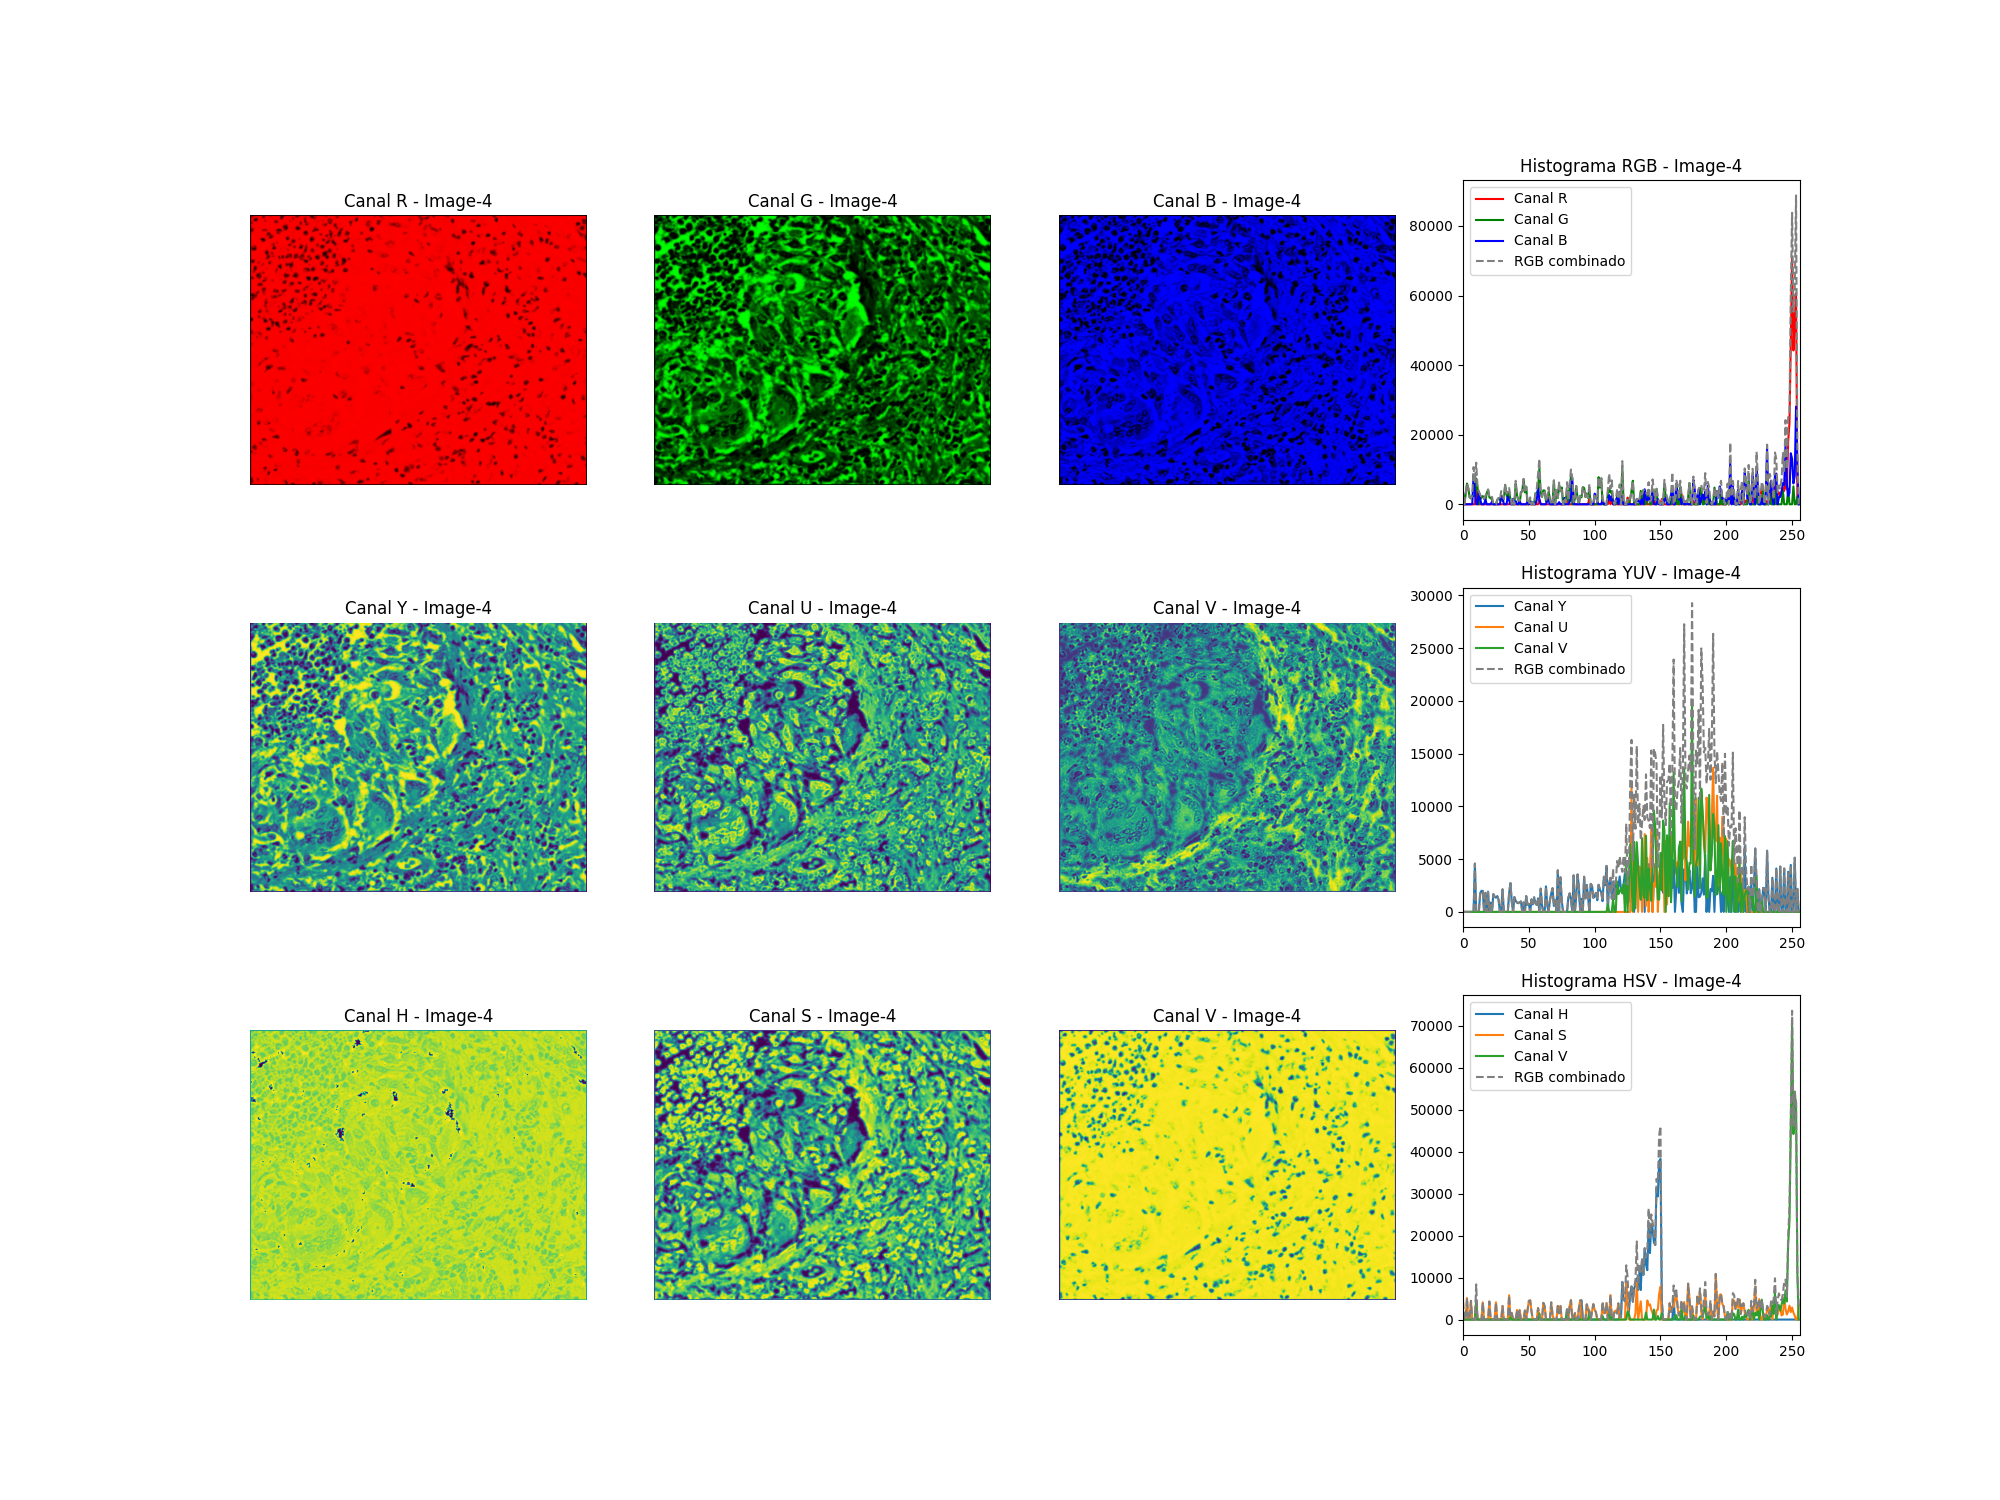
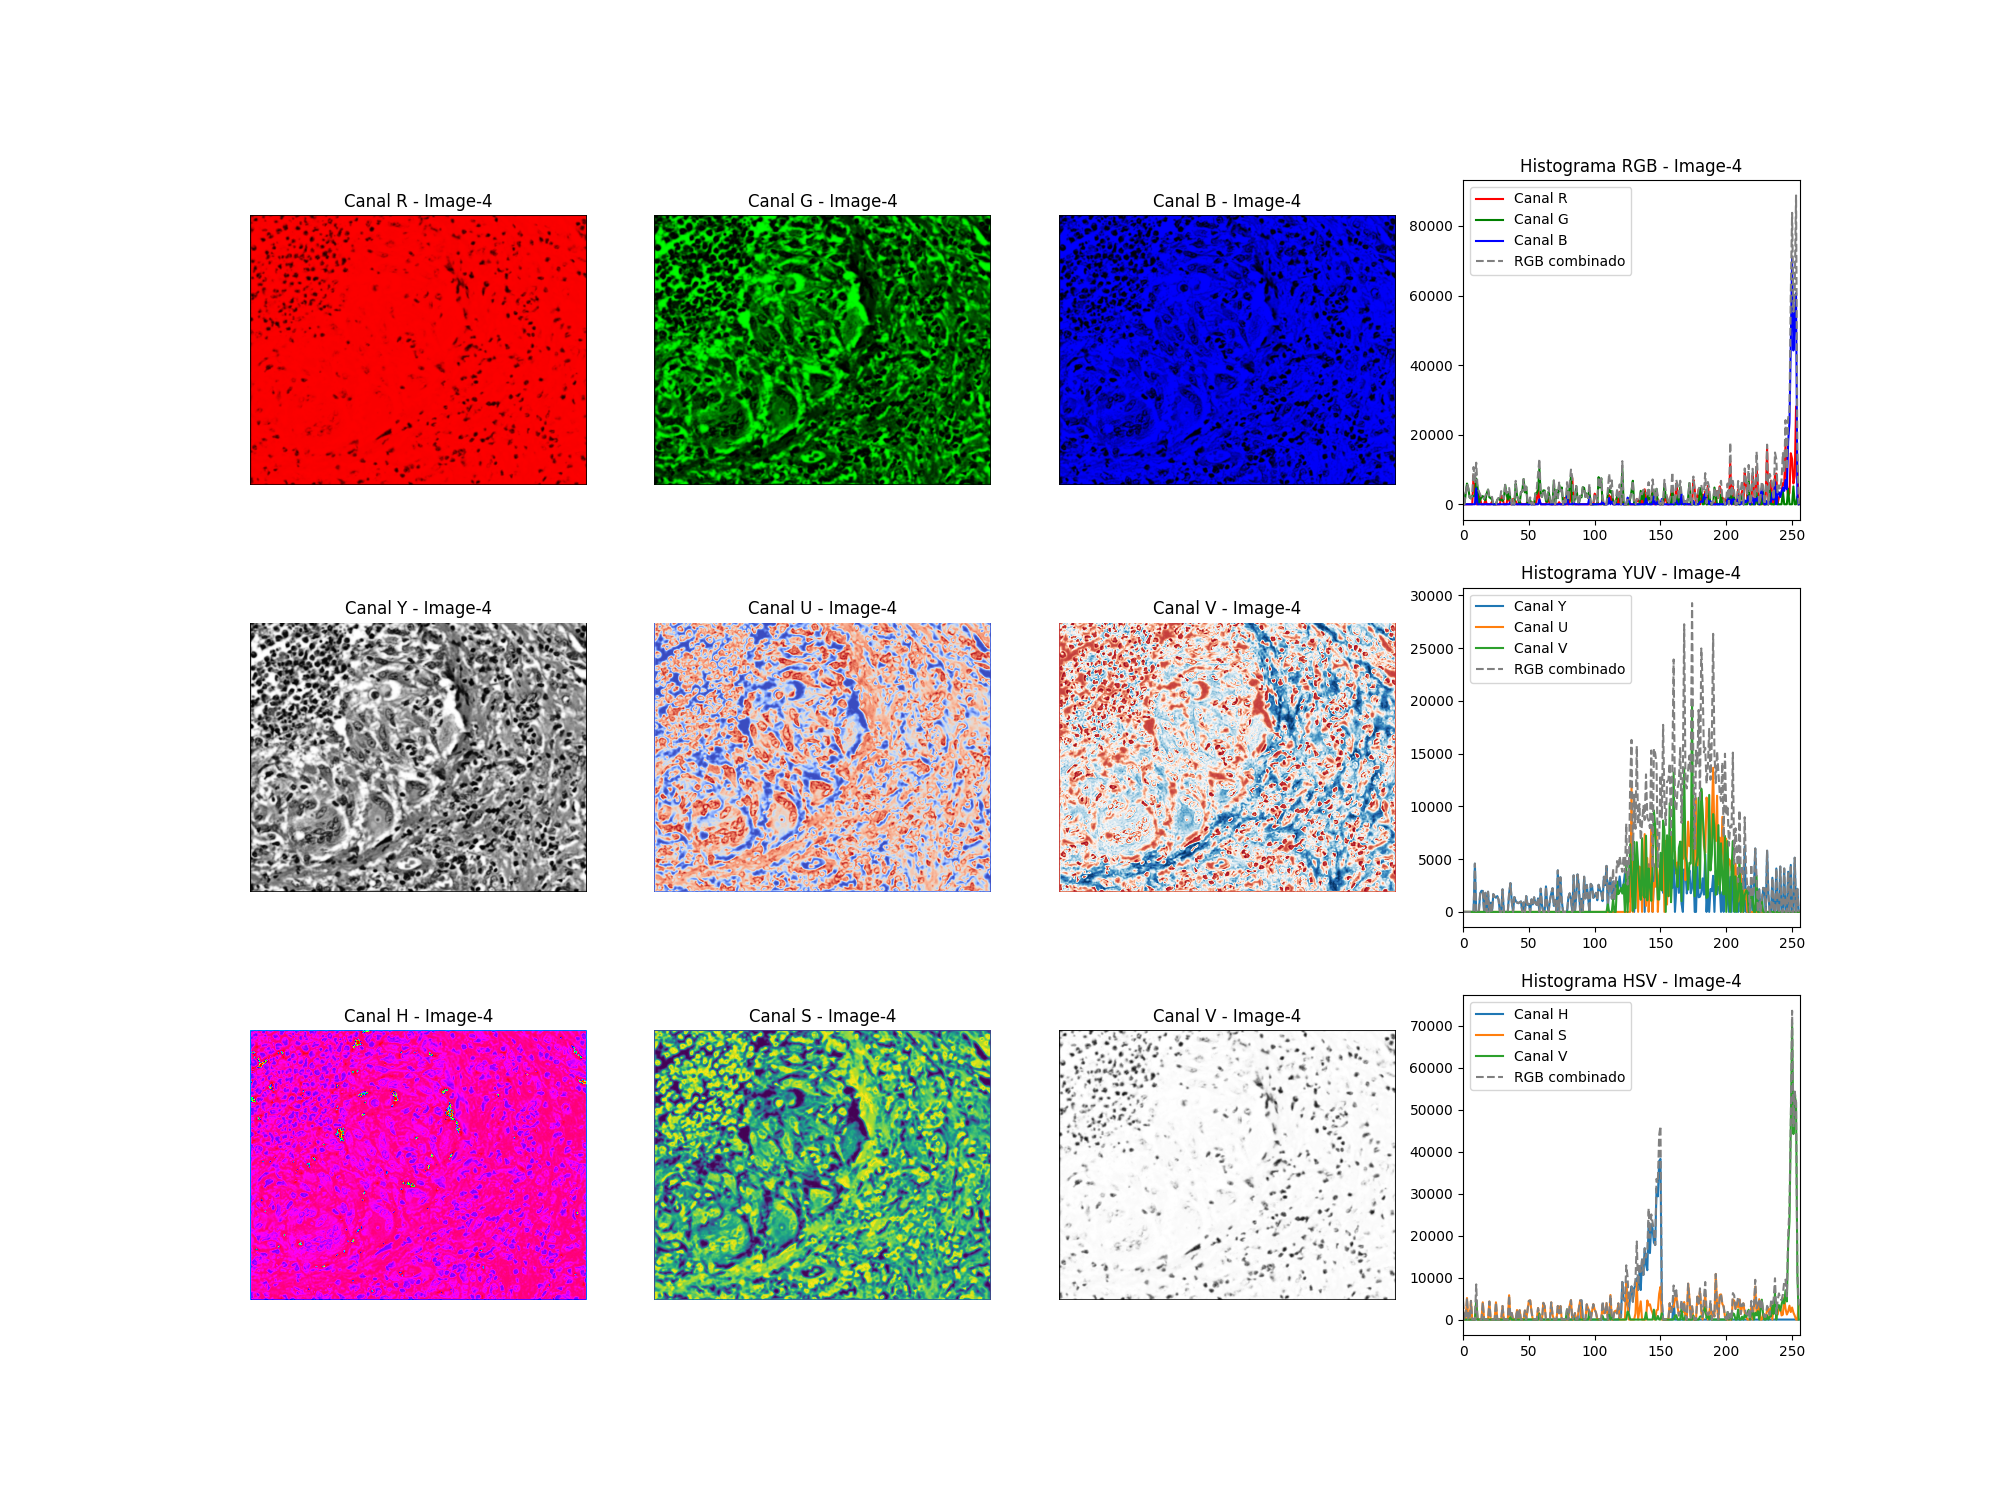
Nuevo seteo de visualizacion de histogramas

diff --git a/Codigos/funciones/histograma.py b/Codigos/funciones/histograma.py
@@ -93,9 +93,12 @@ def mostrar_histogramas(imagenes, sufijos, output_dir='./output/histogramas'):
 
                 # Guardar y mostrar imágenes de cada componente (R, G, B)
                 colores = ('R', 'G', 'B')
+                mapas = ["Reds","Greens","Blues"]
+                
                 for j, col in enumerate(colores):
-                    canal_img = np.zeros_like(imagen)
-                    canal_img[:, :, j] = imagen[:, :, j]
+                    
+                    #canal_img = np.zeros_like(imagen)
+                    canal_img = imagen[:, :, j]
                     
                     # Guardar cada canal individual en la carpeta RGB
                     canal_img_rgb = canal_img # Ya que lo asigne correctamente ya 
@@ -103,9 +106,11 @@ def mostrar_histogramas(imagenes, sufijos, output_dir='./output/histogramas'):
 
                     # Mostrar cada canal
                     plt.subplot(3, 4, 1 + j)
-                    plt.imshow(canal_img_rgb)
+                    plt.imshow(canal_img, cmap = mapas[j] )
                     plt.title(f"Canal {col} - {sufijos[i]}")
                     plt.axis('off')
+                    plt.colorbar()
+                    
 
                 # Guardar el histograma RGB combinado y por canal
                 plt.subplot(3, 4, 4)
@@ -113,8 +118,9 @@ def mostrar_histogramas(imagenes, sufijos, output_dir='./output/histogramas'):
                 colores_rgb = ('r', 'g', 'b')
                 hist_total = np.zeros(256) 
                 for j, col in enumerate(colores_rgb):
-                    imagen_rgb = cv2.cvtColor(imagen, cv2.COLOR_BGR2RGB)
-                    hist = cv2.calcHist([imagen_rgb], [j], None, [256], [0, 256])
+                    #imagen_rgb = cv2.cvtColor(imagen, cv2.COLOR_BGR2RGB) (No hace falta esto porque
+                    # el [j] de hist ya lo pone en su canal apropiado)
+                    hist = cv2.calcHist([imagen], [j], None, [256], [0, 256])
                     hist_total += hist.flatten() 
                     plt.plot(hist, color=col, label=f'Canal {col.upper()}')
                 plt.plot(hist_total, color='gray', label='RGB combinado', linestyle='--', linewidth=1.5)
@@ -128,6 +134,7 @@ def mostrar_histogramas(imagenes, sufijos, output_dir='./output/histogramas'):
                 # Convertir la imagen a YUV y guardar
                 yuv_img = cv2.cvtColor(imagen, cv2.COLOR_BGR2YUV)
                 componentes_yuv = ('Y', 'U', 'V')
+                mapas = ["gray","coolwarm","RdBu"]
                 for j in range(3):
                     canal_img = np.zeros_like(yuv_img)
                     canal_img[:, :, j] = yuv_img[:, :, j]
@@ -137,9 +144,10 @@ def mostrar_histogramas(imagenes, sufijos, output_dir='./output/histogramas'):
 
                     # Mostrar cada canal
                     plt.subplot(3, 4, 5 + j)
-                    plt.imshow(canal_img[:, :, j])
+                    plt.imshow(canal_img[:, :, j], cmap = mapas [j])
                     plt.title(f"Canal {componentes_yuv[j]} - {sufijos[i]}")
                     plt.axis('off')
+                    plt.colorbar()
 
                 # Guardar el histograma YUV
                 plt.subplot(3, 4, 8)
@@ -160,6 +168,7 @@ def mostrar_histogramas(imagenes, sufijos, output_dir='./output/histogramas'):
                 # Convertir la imagen a HSV y guardar
                 hsv_img = cv2.cvtColor(imagen, cv2.COLOR_BGR2HSV)
                 componentes_hsv = ('H', 'S', 'V')
+                mapas = ["hsv","viridis","gray"]
                 for j in range(3):
                     canal_img = np.zeros_like(hsv_img)
                     canal_img[:, :, j] = hsv_img[:, :, j]
@@ -169,9 +178,10 @@ def mostrar_histogramas(imagenes, sufijos, output_dir='./output/histogramas'):
 
                     # Mostrar cada canal
                     plt.subplot(3, 4, 9 + j)
-                    plt.imshow(canal_img[:, :, j])
+                    plt.imshow(canal_img[:, :, j], cmap = mapas[j])
                     plt.title(f"Canal {componentes_hsv[j]} - {sufijos[i]}")
                     plt.axis('off')
+                    plt.colorbar()
 
                 # Guardar el histograma HSV
                 plt.subplot(3, 4, 12)

diff --git a/Codigos/ejercicio1.py b/Codigos/ejercicio1.py
@@ -15,7 +15,7 @@ def ejercicio1():
    
     # Mostrar histogramas del set 1
     print("Mostrando histogramas del Set 1 (PAIByB-3):")
-    mostrar_espacios(imagenes_set1, sufijos_set1)
+    #mostrar_espacios(imagenes_set1, sufijos_set1)
     mostrar_histogramas(imagenes_set1, sufijos_set1)
 
     print("Mostrando autocorrelogramas del Set 1 (PAIByB-3):")
